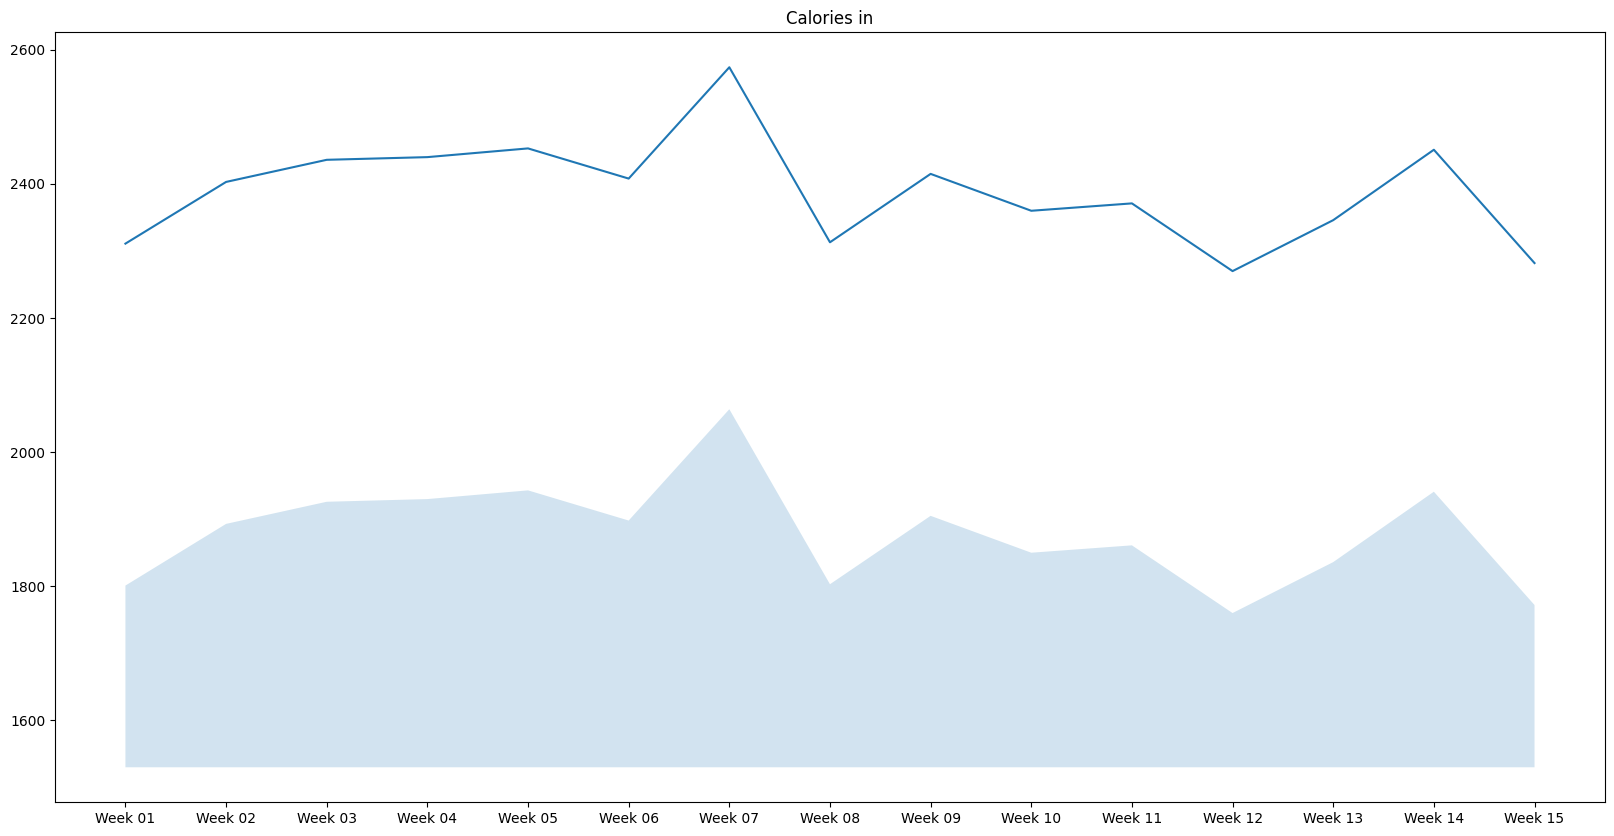
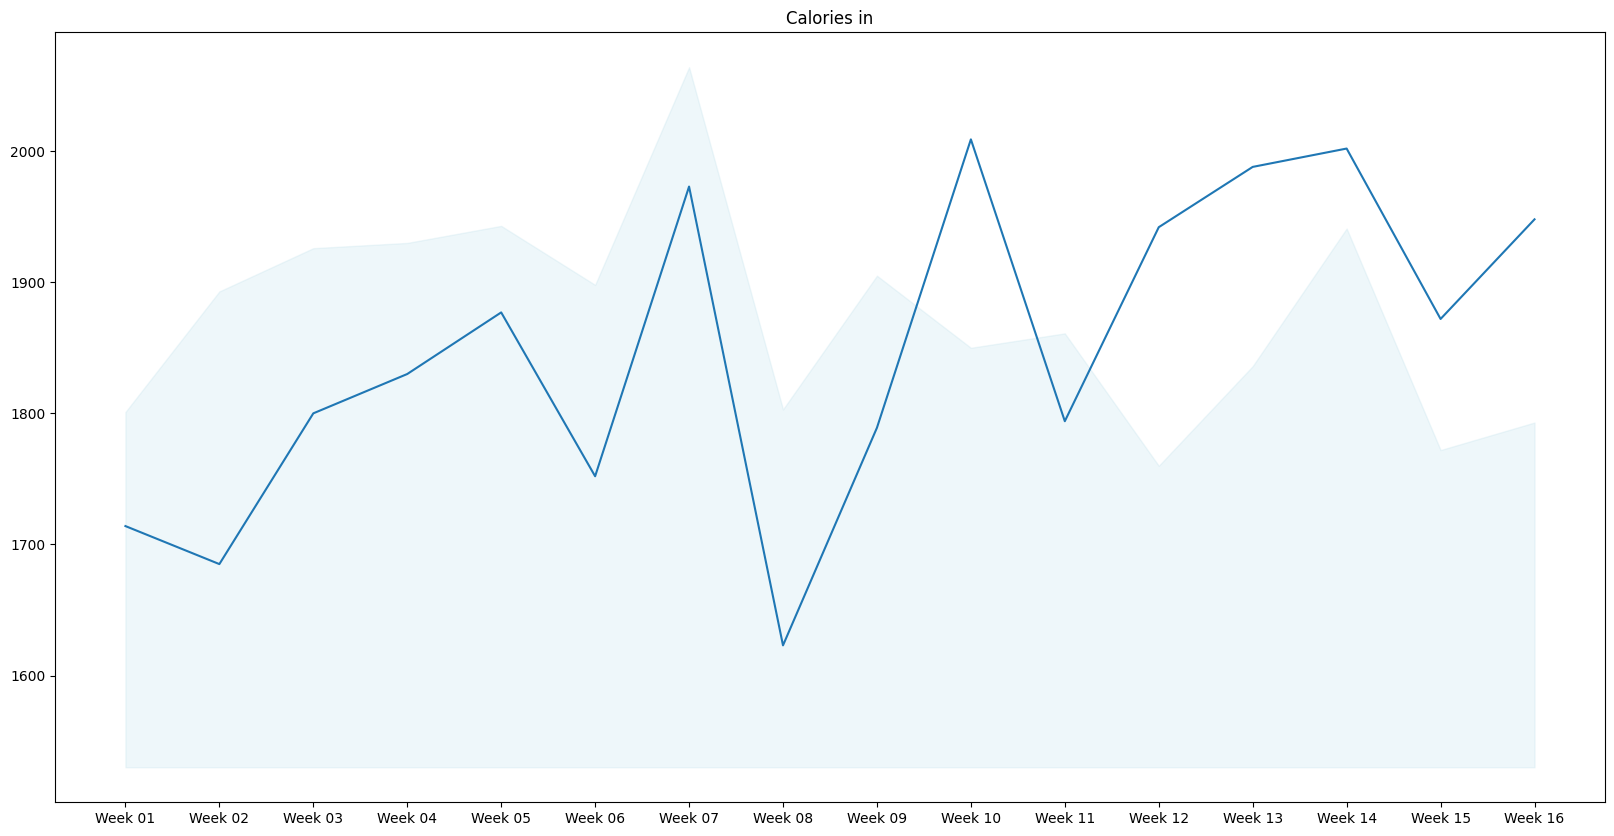
variable goals

diff --git a/scripts/main.py b/scripts/main.py
@@ -7,6 +7,73 @@ def round_to_5(x):
     return 5 * round(x / 5)
 
 
+PARAMS = {
+    # x1.1 : peu ou pas d’exercice/sport (E/S)
+    # x1.2 : E/S 1-2 fois par semaine
+    # x1.35 : E/S 3-5 fois par semaine
+    # x1.45 : E/S 6-7 fois par semaine
+    # x1.6-1.8 : E/S 6-7 fois par semaine & travail physique
+    "activity": 1.35,
+    # Between 1.5 and 2.3
+    # the leaner you are and the higher the deficit is
+    # the higher this factor should be
+    "protein": 2.3,
+    # At least 0.7, to stay healthy
+    "lipid": 1.5
+}
+
+WEEKLY_PARAMS = {
+    "hard":  {
+        "weight": 66,
+        # Estimated body fat percentage
+        "body_fat": 0.2,
+        # Deficit percentage
+        # Recommended between 10 and 25%
+        # The higher it is, the higher should the protein factor be
+        "deficit": 0.25,
+    },
+    "medium":  {
+        "weight": 65.8,
+        "body_fat": 0.2,
+        "deficit": 0.20,
+    },
+    "easy":  {
+        "weight": 63,
+        "body_fat": 0.17,
+        "deficit": 0.15,
+    }
+}
+
+CAL_PER_PROTEIN_GRAM = 4
+CAL_PER_LIPID_GRAM = 9
+CAL_PER_CARBOHYDRATE_GRAM = 4
+PARAM_MIN_LIPID_FACTOR = 0.7
+
+GOALS = {}
+
+for difficulty_key, params in WEEKLY_PARAMS.items():
+    daily_maintenance = round_to_5((370 + 21.6 * (1 - params["body_fat"]) * params["weight"]) * PARAMS["activity"])
+    daily_goal = round_to_5((1 - params["deficit"]) * daily_maintenance)
+    daily_deficit = round_to_5(daily_maintenance - daily_goal)
+    daily_protein = round_to_5(PARAMS["protein"] * (1 - params["body_fat"]) * params["weight"])
+    daily_lipid = round_to_5(PARAMS["lipid"] * (1 - params["body_fat"]) * params["weight"])
+    daily_min_lipid = round_to_5(PARAM_MIN_LIPID_FACTOR * (1 - params["body_fat"]) * params["weight"])
+    daily_carbohydrate = round_to_5(
+        (daily_goal - (daily_lipid * CAL_PER_LIPID_GRAM) - (daily_protein * CAL_PER_PROTEIN_GRAM)) /
+        CAL_PER_CARBOHYDRATE_GRAM
+    )
+    GOALS[difficulty_key] = {
+        "daily_maintenance": daily_maintenance,
+        "daily_goal": daily_goal,
+        "daily_deficit": daily_deficit,
+        "daily_protein": daily_protein,
+        "daily_lipid": daily_lipid,
+        "daily_min_lipid": daily_min_lipid,
+        "daily_carbohydrate": daily_carbohydrate
+    }
+
+
+
 PARAM_WEIGHT = 66
 
 # Estimated body fat percentage
@@ -32,10 +99,6 @@ PARAM_PROTEIN_FACTOR = 2.3
 # At least 0.7, to stay healthy
 PARAM_LIPID_FACTOR = 1.5
 PARAM_MIN_LIPID_FACTOR = 0.7
-
-CAL_PER_PROTEIN_GRAM = 4
-CAL_PER_LIPID_GRAM = 9
-CAL_PER_CARBOHYDRATE_GRAM = 4
 
 DAILY_MAINTENANCE = round_to_5((370 + 21.6 * (1 - PARAM_BODY_FAT) * PARAM_WEIGHT) * PARAM_ACTIVITY_FACTOR)
 DAILY_GOAL = round_to_5((1 - PARAM_DEFICIT) * DAILY_MAINTENANCE)
@@ -67,14 +130,14 @@ df_cal_mean = pd.DataFrame({
 ax = df_cal_mean.plot(x='Week',
                       y=['Calorie in', 'Calorie out'],
                       kind='bar',
-                      colormap='Blues',
+                      color=['Blue', 'Gray'],
                       figsize=[20, 10])
 
 df_cal_mean.plot(x='Week',
                  y=['Adjusted goal', 'Estimated goal'],
                  kind='line',
                  ax=ax,
-                 colormap='Blues')
+                 color=['Red', 'Black'])
 
 pp.text(10, DAILY_GOAL, DAILY_GOAL)
 
@@ -95,7 +158,7 @@ df_weight = pd.DataFrame({
 ax = df_weight.plot(x='Week',
                     y=['Weight'],
                     kind='line',
-                    color=['royalblue'],
+                    color=['Blue'],
                     figsize=[20, 10])
 pp.title('Weight')
 
@@ -125,12 +188,12 @@ df_macro_mean = pd.DataFrame({
 ax = df_macro_mean.plot(x='Week',
                         y=['Protein', 'Lipid', 'Carbohydrate'],
                         kind='bar',
-                        colormap='Blues',
+                        color=['Blue', 'Gray', 'LightBlue'],
                         figsize=[20, 10])
 df_macro_mean.plot(x='Week',
-                   y=['Protein goal', 'Lipid goal', 'Carbohydrate goal', 'Lipid min'],
+                   y=['Protein goal', 'Lipid min'],
                    kind='line', ax=ax,
-                   colormap='Blues')
+                   color=['Blue', 'Gray'])
 pp.title('Macro mean')
 
 # Add bar labels
@@ -164,13 +227,16 @@ pp.savefig('../viz/assets/weight-history.png', bbox_inches="tight", dpi=100)
 def plot_line(index, serie, serie_min, serie_max, title, filename):
     pp.figure(figsize=[20, 10])
     pp.plot(index, serie)
-    pp.fill_between(index, serie_min, serie_max, alpha=0.2)
+    pp.fill_between(index, serie_min, serie_max, alpha=0.2, color='lightblue')
     pp.title(title)
     pp.savefig('../viz/assets/' + filename + '.png', bbox_inches="tight", dpi=100)
     pp.show()
 
 
-plot_line(df_cal_mean['Week'], df_cal_mean['Calorie in'], df_cal_mean['Estimated goal'], df_cal_mean['Adjusted goal'],
+plot_line(df_cal_mean['Week'],
+          df_cal_mean['Calorie in'],
+          df_cal_mean['Estimated goal'],
+          df_cal_mean['Adjusted goal'],
           'Calories in', 'cal-in')
-plot_line(df_cal_mean['Week'], df_cal_mean['Calorie out'], df_cal_mean['Estimated goal'], df_cal_mean['Adjusted goal'],
-          'Calories in', 'cal-in')
+#plot_line(df_cal_mean['Week'], df_cal_mean['Calorie out'], df_cal_mean['Estimated goal'], df_cal_mean['Adjusted goal'],
+#          'Calories out', 'cal-out')

diff --git a/viz/presentation.md b/viz/presentation.md
@@ -44,6 +44,12 @@ April 2022 - 3 month feedback
 
 # Agenda
 
+- À quoi ça sert ?
+- Le principe
+- Les applications courantes
+- Pourquoi j'ai fait ça ?
+- Mes objectifs
+
 - Why I did that ?
 - Framework principles
 - My initial parameters
@@ -54,74 +60,66 @@ April 2022 - 3 month feedback
 
 ---
 
-# Why I did that
+# Le principe
 
-|        |         |         |         |         |
-|--------|---------|---------|---------|---------|
-| Date   | 2019-09 | 2020-03 | 2021-12 | 2021-12 |
-| Weight | 62.0 kg | 63.5kg  | 67 kg   | 67 kg   |
+Suivre
 
-Beyond the weight 
-
-- I wasn't happy with what the mirror was showing me
-- I was feeling heavy on boulders
-- Had to choose between loosing some weight or buy new clothes
-- I knew that, the more I wait, the harder it will be
+- Les calories que l'on mange
+- La répartition des macronutriments
+  - Protéines
+  - Lipides
+  - Glucides
 
 ---
-# Framework principles
+# Les applications courantes
 
-The main principles
+Beaucoup utilisé dans le monde de la préparation physique
 
-1. No weight loss without calorie deficit (nor gain without calorie surplus)
-2. We usually talk about weight loss, when we mean fat loss
-   1. Loosing weight != loosing fat
-   2. Loosing weight = loosing muscle + water + fat
-3. The goal is to optimize the fat loss, the best way to do so is to minimize the muscle loss by
-   1. Providing enough protein
-   2. Using muscles, if possible in a way to stimulate muscle growth
-   
+- Fitness
+- Acteurs
+- Autres sportifs de haut niveau
+
+Utilisé généralement pour
+- Prise de masse
+- Sèche
+
+--- 
+
+# Pourquoi j'ai fait ça ?
+
+Point de départ
+
+- Pris du poids entre septembre 2019 et décembre 2020 (+5 kg)
+- Pas réussi à perdre du poids en 2021
+
+Motivations
+
+- Constat d'échec de mes tentatives non structurées
+- Pas envie de faire un "régime"
+- Envie de comprendre un peu mieux mes habitudes alimentaires
+- Perdre quelques kilos pour
+  - Retrouver mes sensations sur un mur d'escalade
+  - Ne pas changer de garde robe
+  - Me sentir mieux dans mon corps
+  
 ---
 
-# My initial parameters
+# Mes objectifs
 
-| Weight | Body fat | Activity factor | Deficit | Protein factor | Lipid factor |
-|--------|----------|-----------------|---------|----------------|--------------|
-| 66kg   | 20%      | 1.35            | 20%     | 2.3 g/kg       | 1.5 g/kg     |
+1. Objectif réduction de masse grasse 10% < X < 15%
+   - Estimée entre 15 et 20% => 5% de 67kg = 3.35kg
+   - Objectif autour de 62kg (3.35 + 1-2kg d'eau et de muscle)
+2. Me sentir mieux dans mon corps 
+   - À l'aise dans mes habits sans changer de garde robe
+   - Retrouver mes sensations au bloc
+3. Mieux comprendre mon alimentation
+4. Bonus: Abdos visibles
 
-Thoses factors are used to compute daily calories and macro goals
-
-| Maintenance  | Deficit     | Goal         | Protein  | Lipid   | Carbohydrate |
-|--------------|-------------|--------------|----------|---------|--------------|
-| 2095 calorie | 420 calorie | 1675 calorie | 125 g/kg | 80 g/kg | 115 g/kg     |
-
-<!--
-- Weight, measured
-- Body fat, measured or estimated
-- Activity factor, estimated
-  - 1.1: a few or no exercices
-  - 1.2: exercice 1-2 times a week
-  - 1.35: exercice 3-5 times a week
-  - 1.45: exercice 6-7 times a week
-  - 1.6 - 1.8: exercice 6-7 times a week + physical work
-- Deficit, should be between 10% and 25%
-  - This higher it is, the higher should the protein factor be
-  - The higher, the harder
-- Protein factor
-   - Between 1.5 and 2.3
-- Lipid factor
-   - At least 0.7
-- Carbohydrate
-   - The rest
--->
 ---
-# Parameters from studies
 
-| What          | Calorie     |
-|---------------|-------------|
-| Protein       | 4 calorie/g |
-| Lipid         | 9 calorie/g |
-| Carbohydrates | 4 calorie/g |
+# Le calculateur
+
+Démo
 
 ---
 
@@ -139,6 +137,6 @@ What I've changed
 
 ---
 
-# Results
+# Results (weight)
 
 ![image](assets/weight.png)
